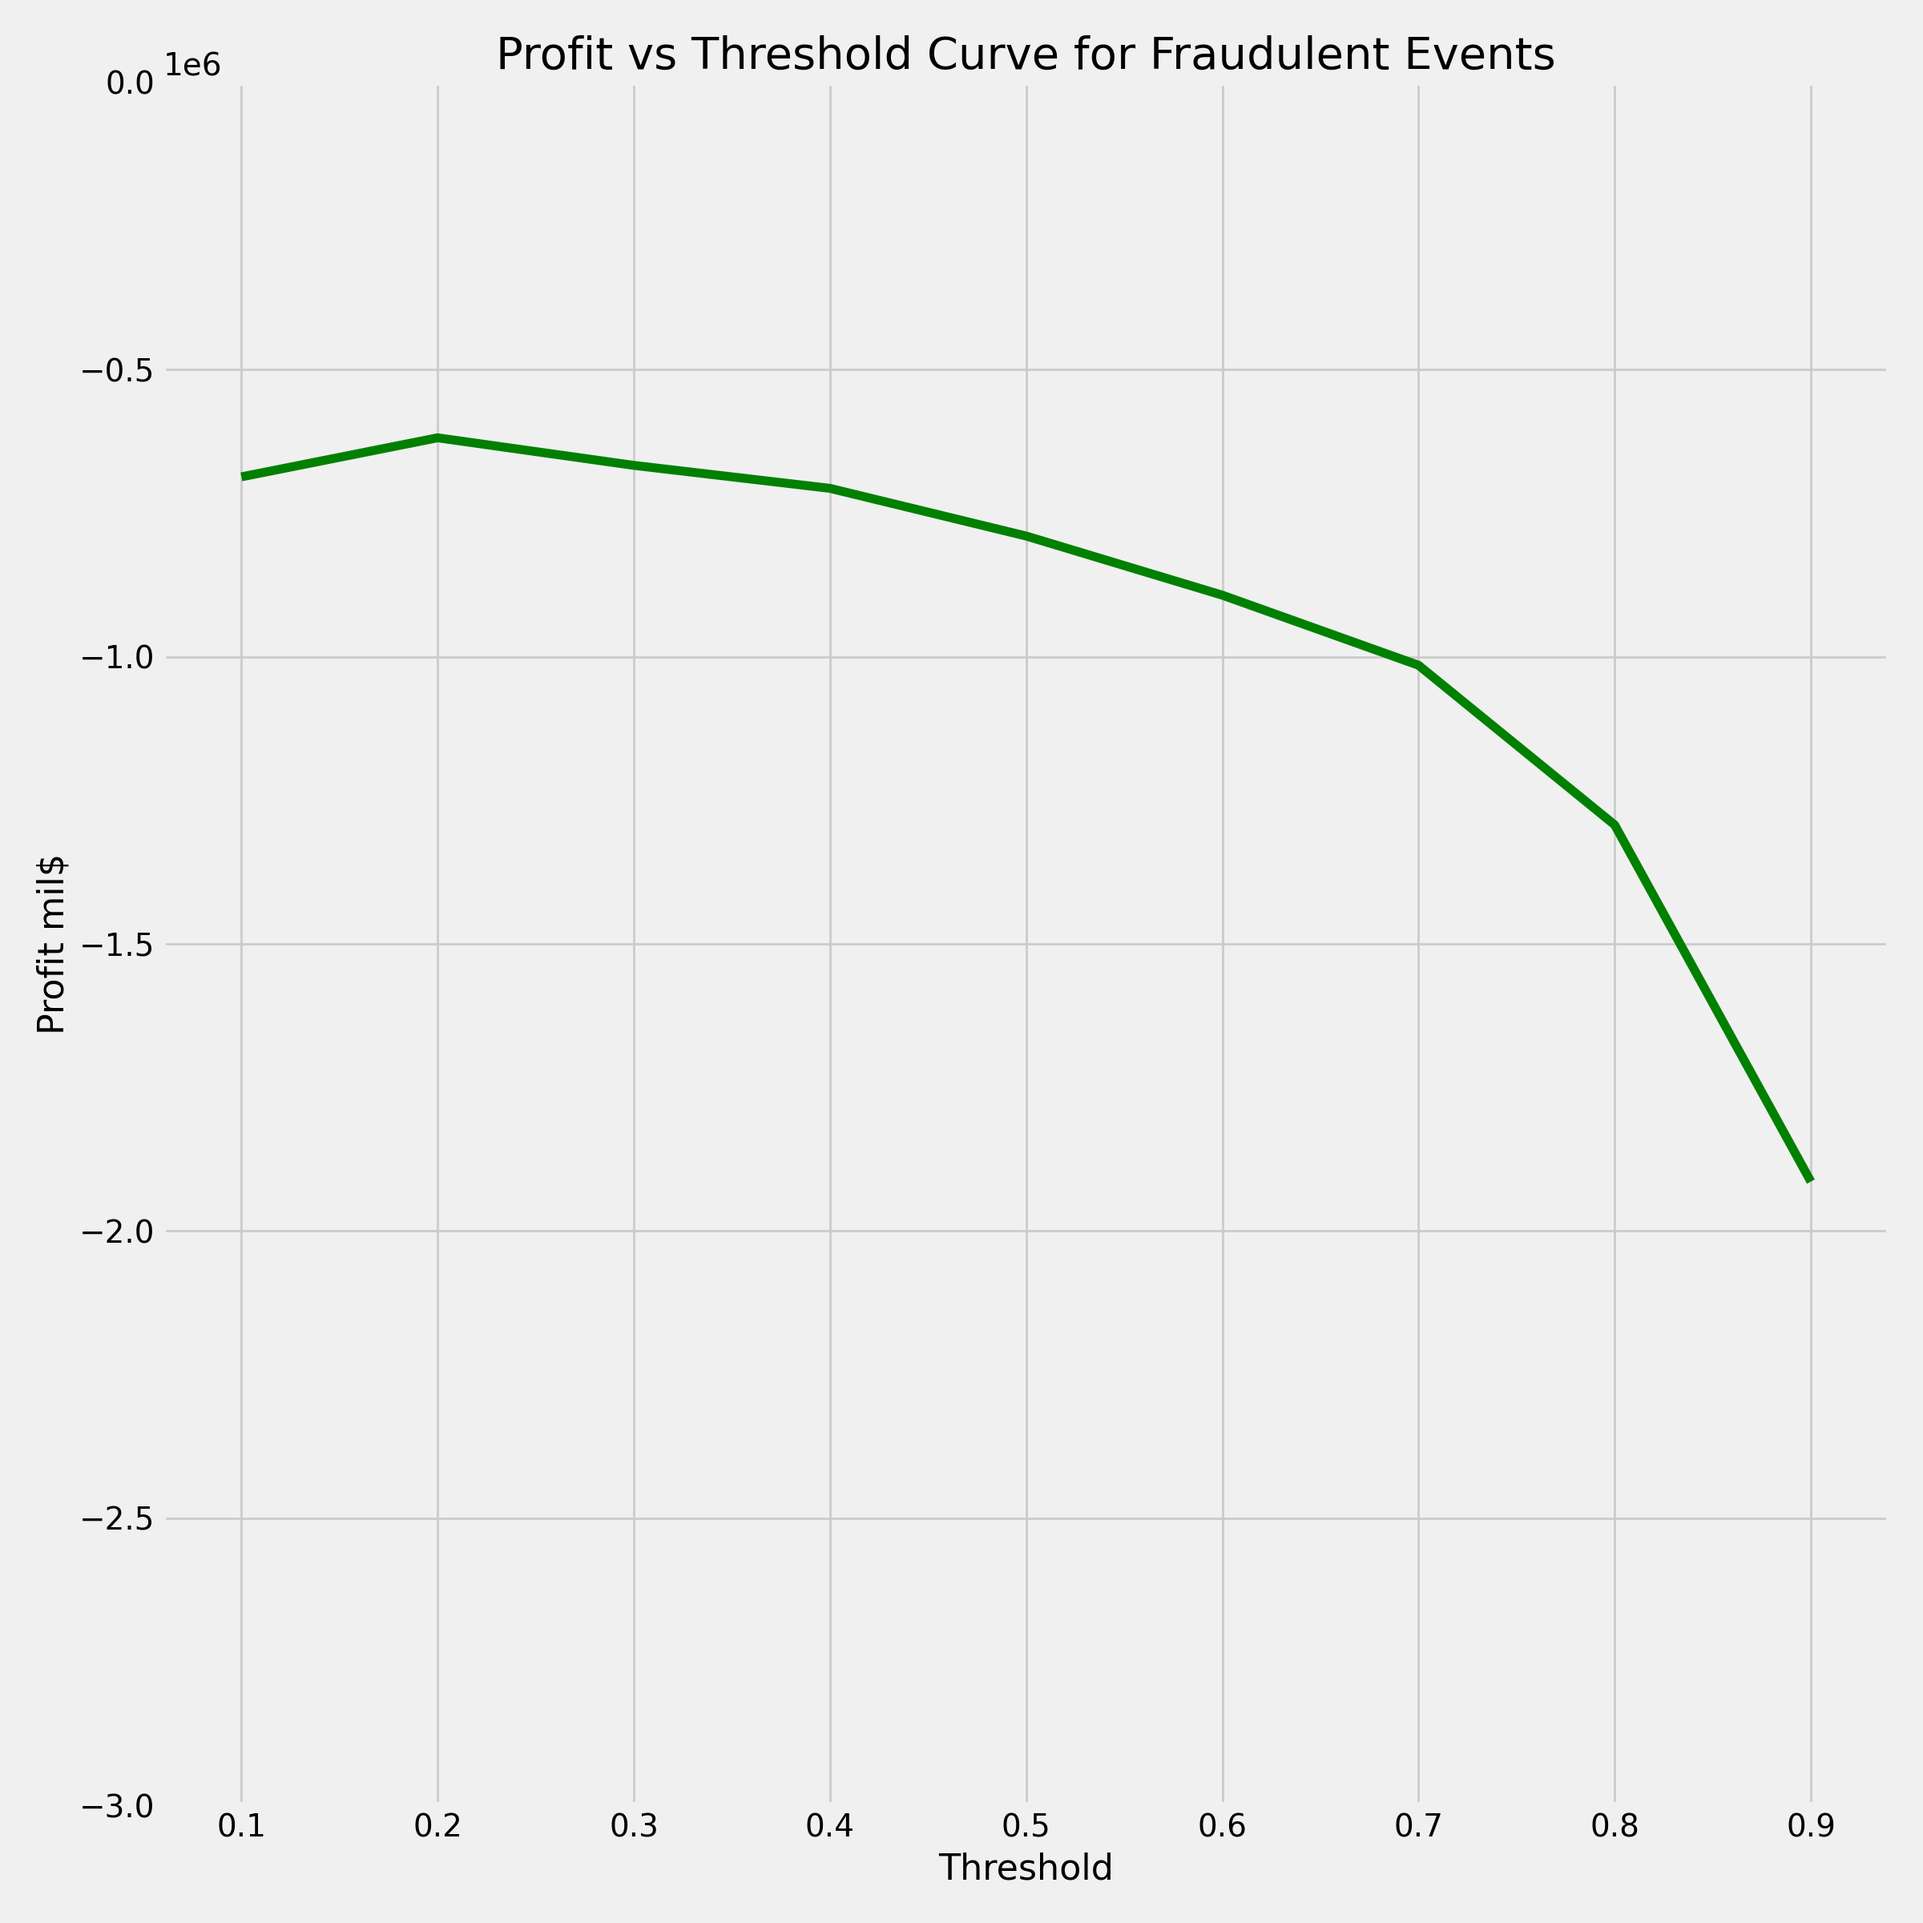
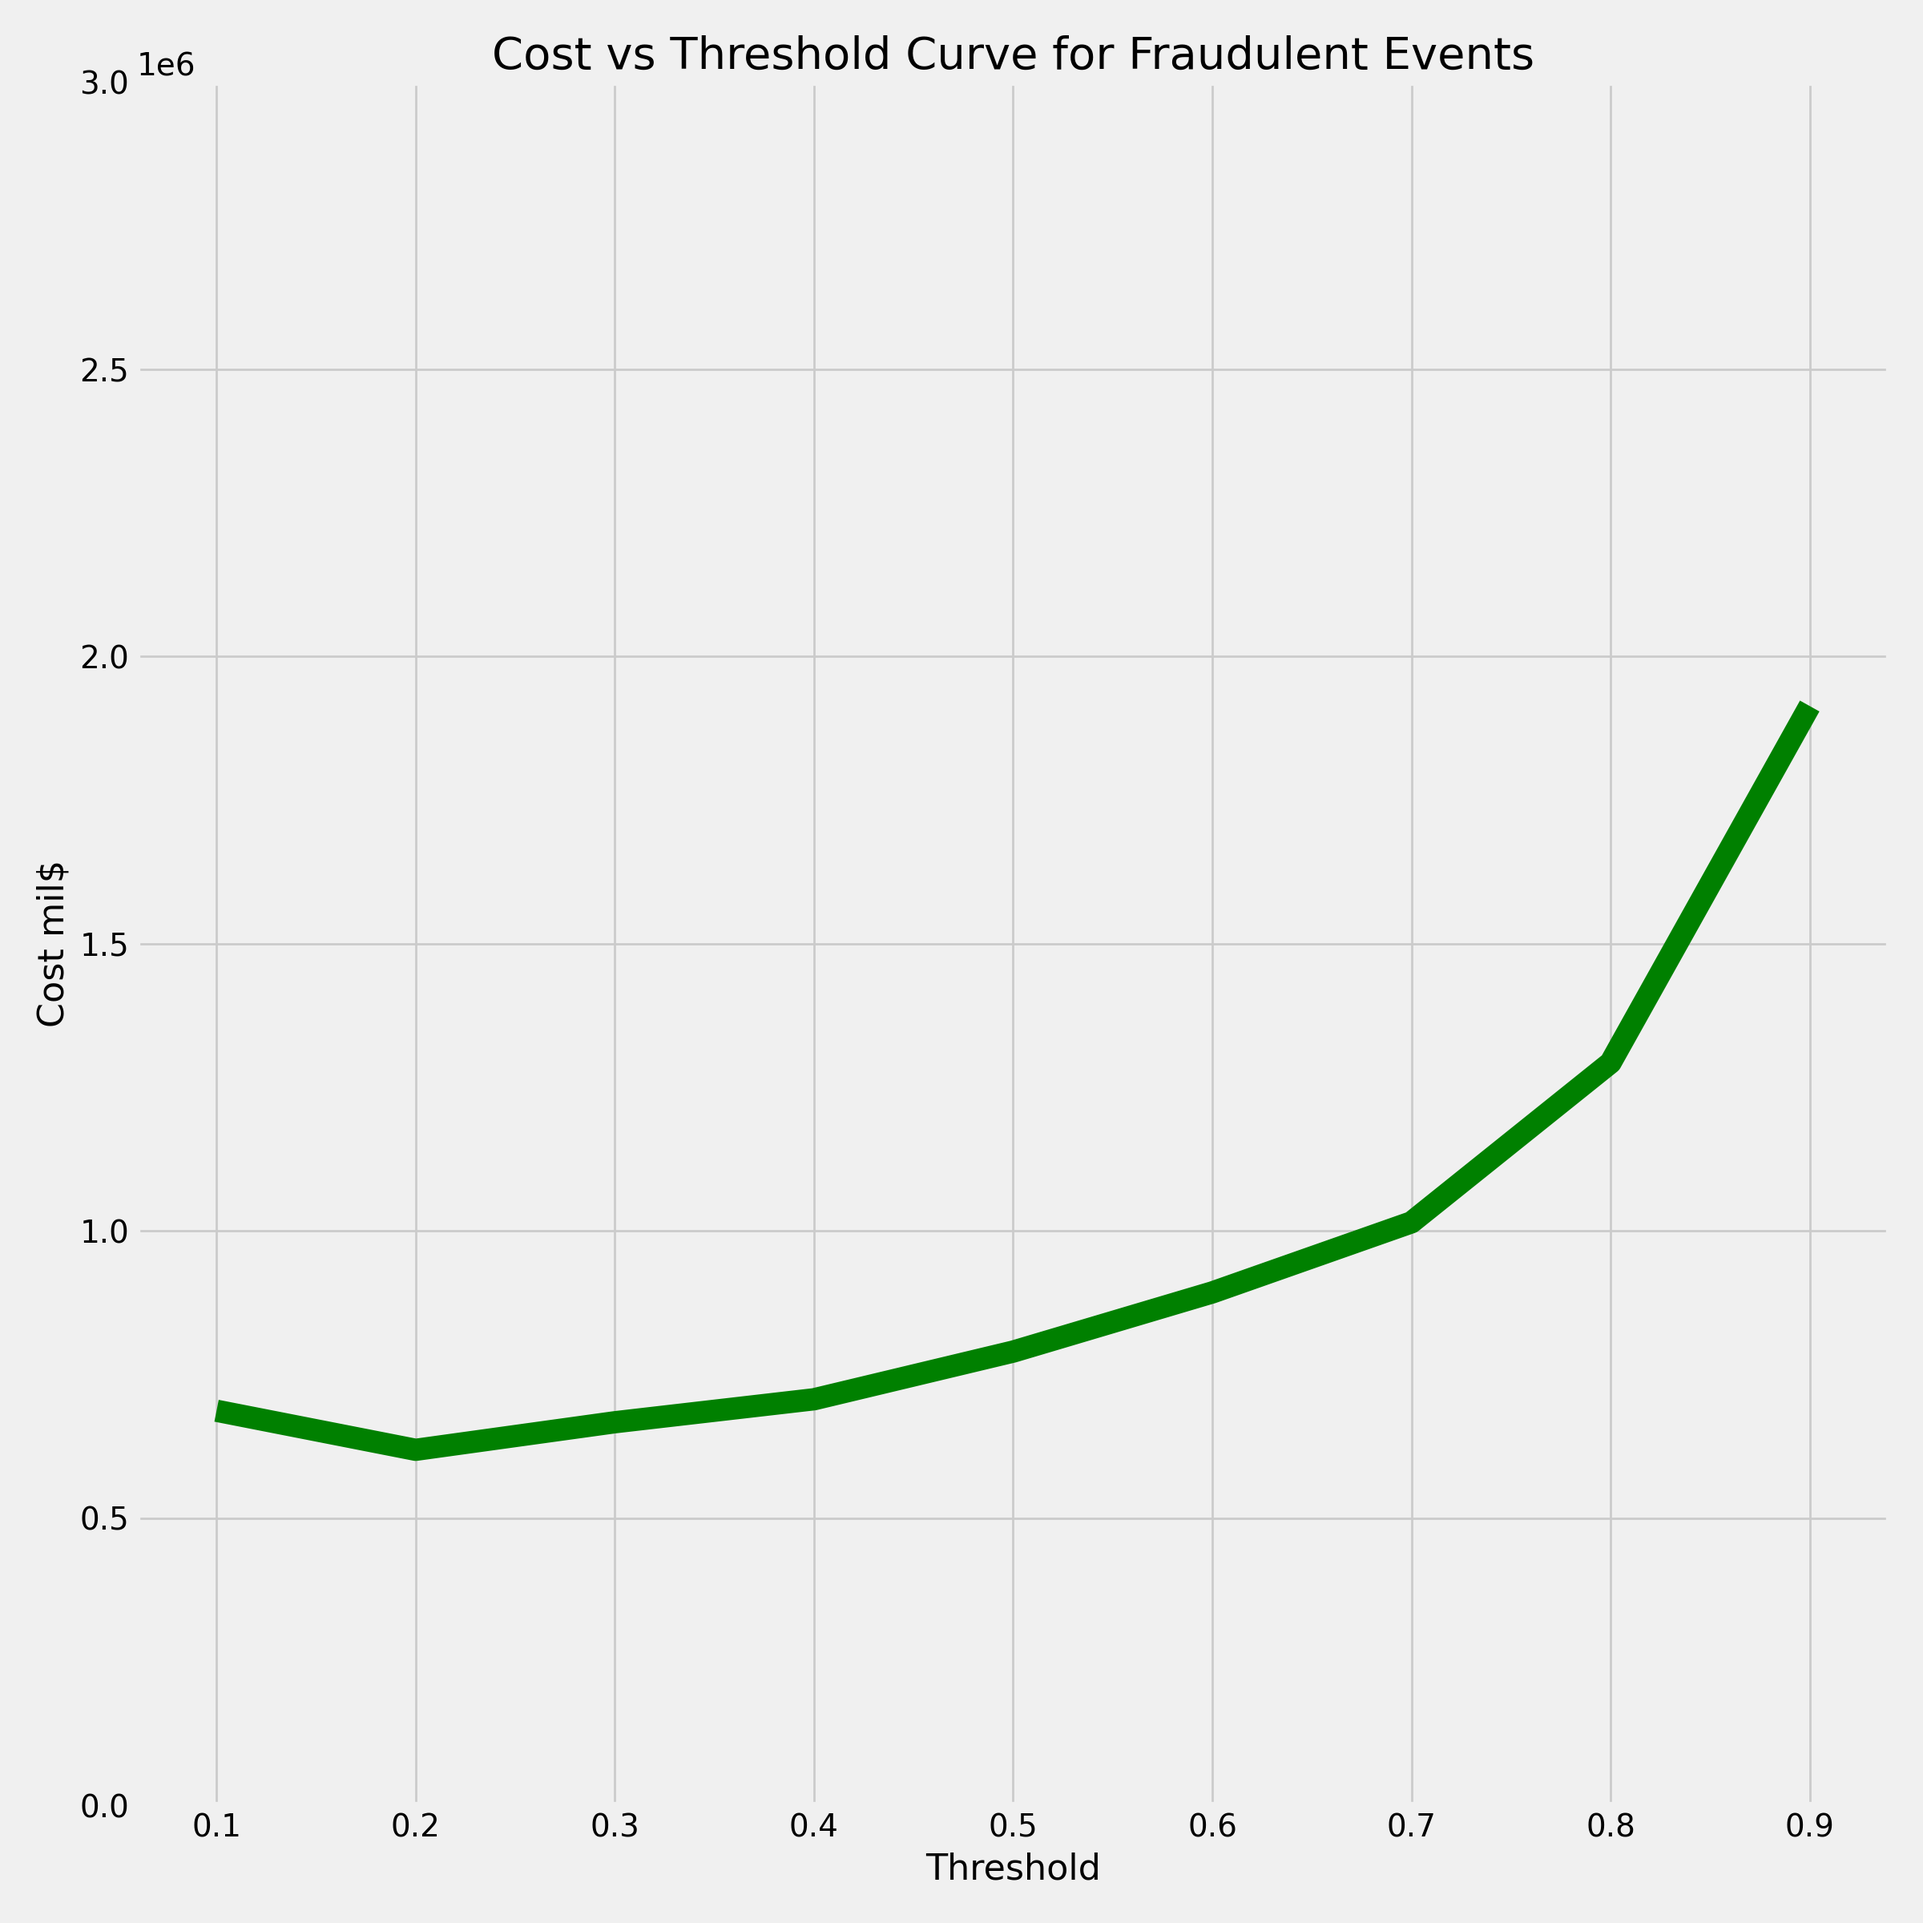
clean code

diff --git a/web_app/justin_scripts.py b/web_app/justin_scripts.py
@@ -1,10 +1,8 @@
 import pandas as pd
 import numpy as np
 import matplotlib.pyplot as plt
-from sklearn.ensemble import RandomForestClassifier
 from sklearn.model_selection import train_test_split
 from bs4 import BeautifulSoup
-import numpy as np
 from bs4.element import Comment
 from nltk.corpus import stopwords
 from nltk.tokenize import word_tokenize
@@ -16,11 +14,8 @@ from sklearn.feature_extraction.text import CountVectorizer
 from sklearn.naive_bayes import MultinomialNB
 from sklearn.pipeline import Pipeline
 from sklearn.metrics import classification_report, confusion_matrix, plot_confusion_matrix
-import pandas as pd
 import re
-from collections import Counter
 import matplotlib.pyplot as plt
-from wordcloud import WordCloud
 import pickle as pickle
 
 
@@ -28,7 +23,8 @@ plt.style.use('fivethirtyeight')
 df = pd.read_json('../data/data.json')
 
 def tag_visible(element):
-        if element.parent.name in ['style', 'script', 'head', 'title', 'meta', '[document]']:
+        if element.parent.name in ['style', 'script', 'head', 'title', 'meta', 
+                                   '[document]']:
             return False
         if isinstance(element, Comment):
             return False

diff --git a/web_app/profit_curve.py b/web_app/profit_curve.py
@@ -12,7 +12,7 @@ def profits(cf_lst, thresholds, cost_benefit_matrix):
 
 if __name__ == "__main__":
     
-    cost_benefit_matrix = np.array([[0,-1000],[-10000,-1000]])
+    cost_benefit_matrix = np.array([[0, 1000],[10000, 1000]])
     thresholds = np.array([0.1,0.2,0.3,0.4,0.5,0.6,0.7,0.8,0.9])
     x = np.array([[4293,12],[40,387]])
     total = np.sum(x)
@@ -35,10 +35,10 @@ if __name__ == "__main__":
 
     fig, ax = plt.subplots(figsize=(12,12))
 
-    ax.plot(thresholds, profit_lst, scaley=True, color='green')
-    ax.set_title('Profit vs Threshold Curve for Fraudulent Events')
-    ax.set_ylabel('Profit mil$', fontsize=16)
+    ax.plot(thresholds, profit_lst, scaley=True, color='green', linewidth=10)
+    ax.set_title('Cost vs Threshold Curve for Fraudulent Events')
+    ax.set_ylabel('Cost mil$', fontsize=16)
     ax.set_xlabel('Threshold', fontsize=16)
-    plt.ylim(-3000000,0)
+    plt.ylim(0,3000000)
     plt.tight_layout()
     plt.show()

diff --git a/readme.md b/readme.md
@@ -90,7 +90,7 @@ Predicted | Fraud | Not Fraud
 # Detection System App
 
 <p align="center">
-<img src="images/Profit_Curve.png"  height="400" width="400" />
+<img src="images/Profit_Curve.png"  height="500" width="600" />
 </p>
 
 Fraud was categorized into low risk (<20% probability), medium risk (20%-70% probability) and high risk (over 70% probability). 
